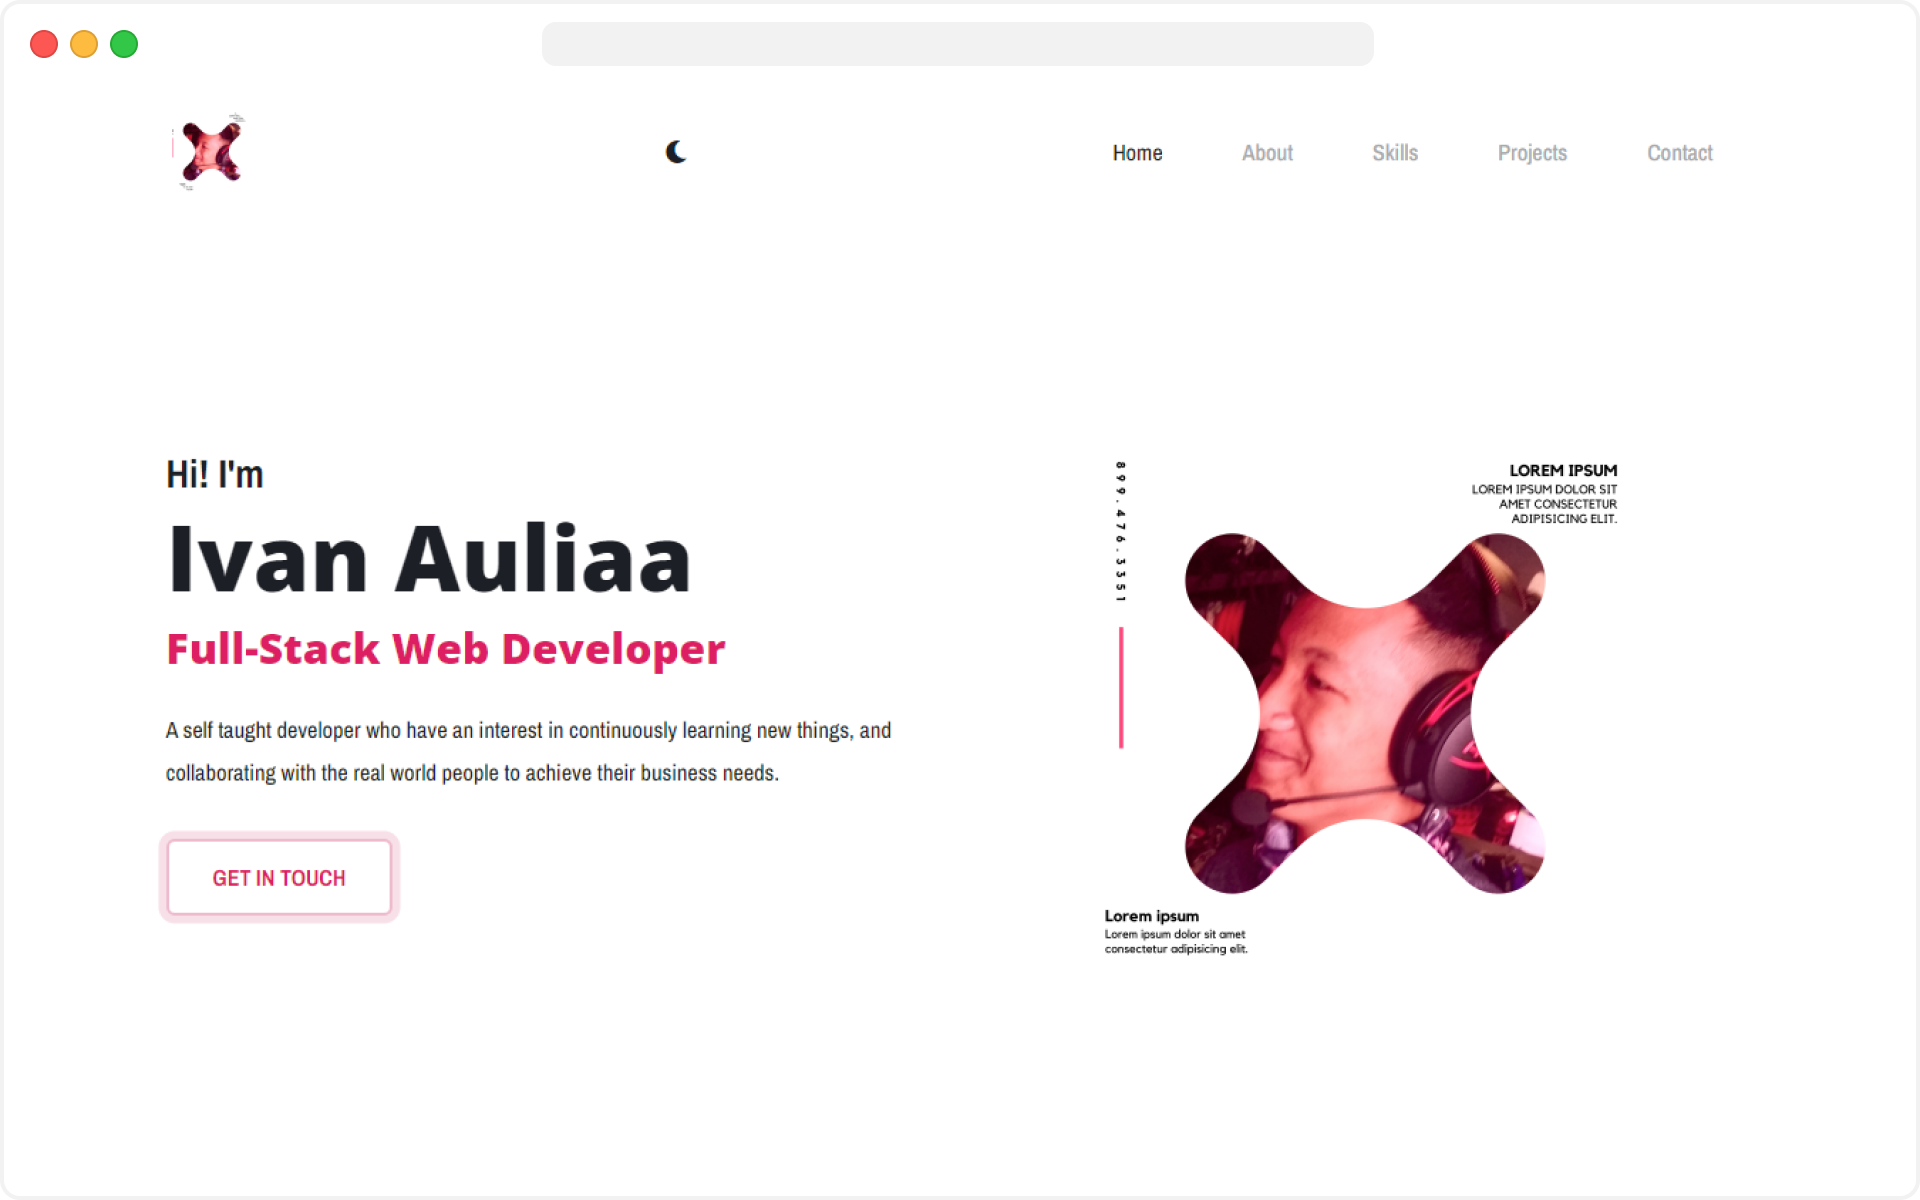
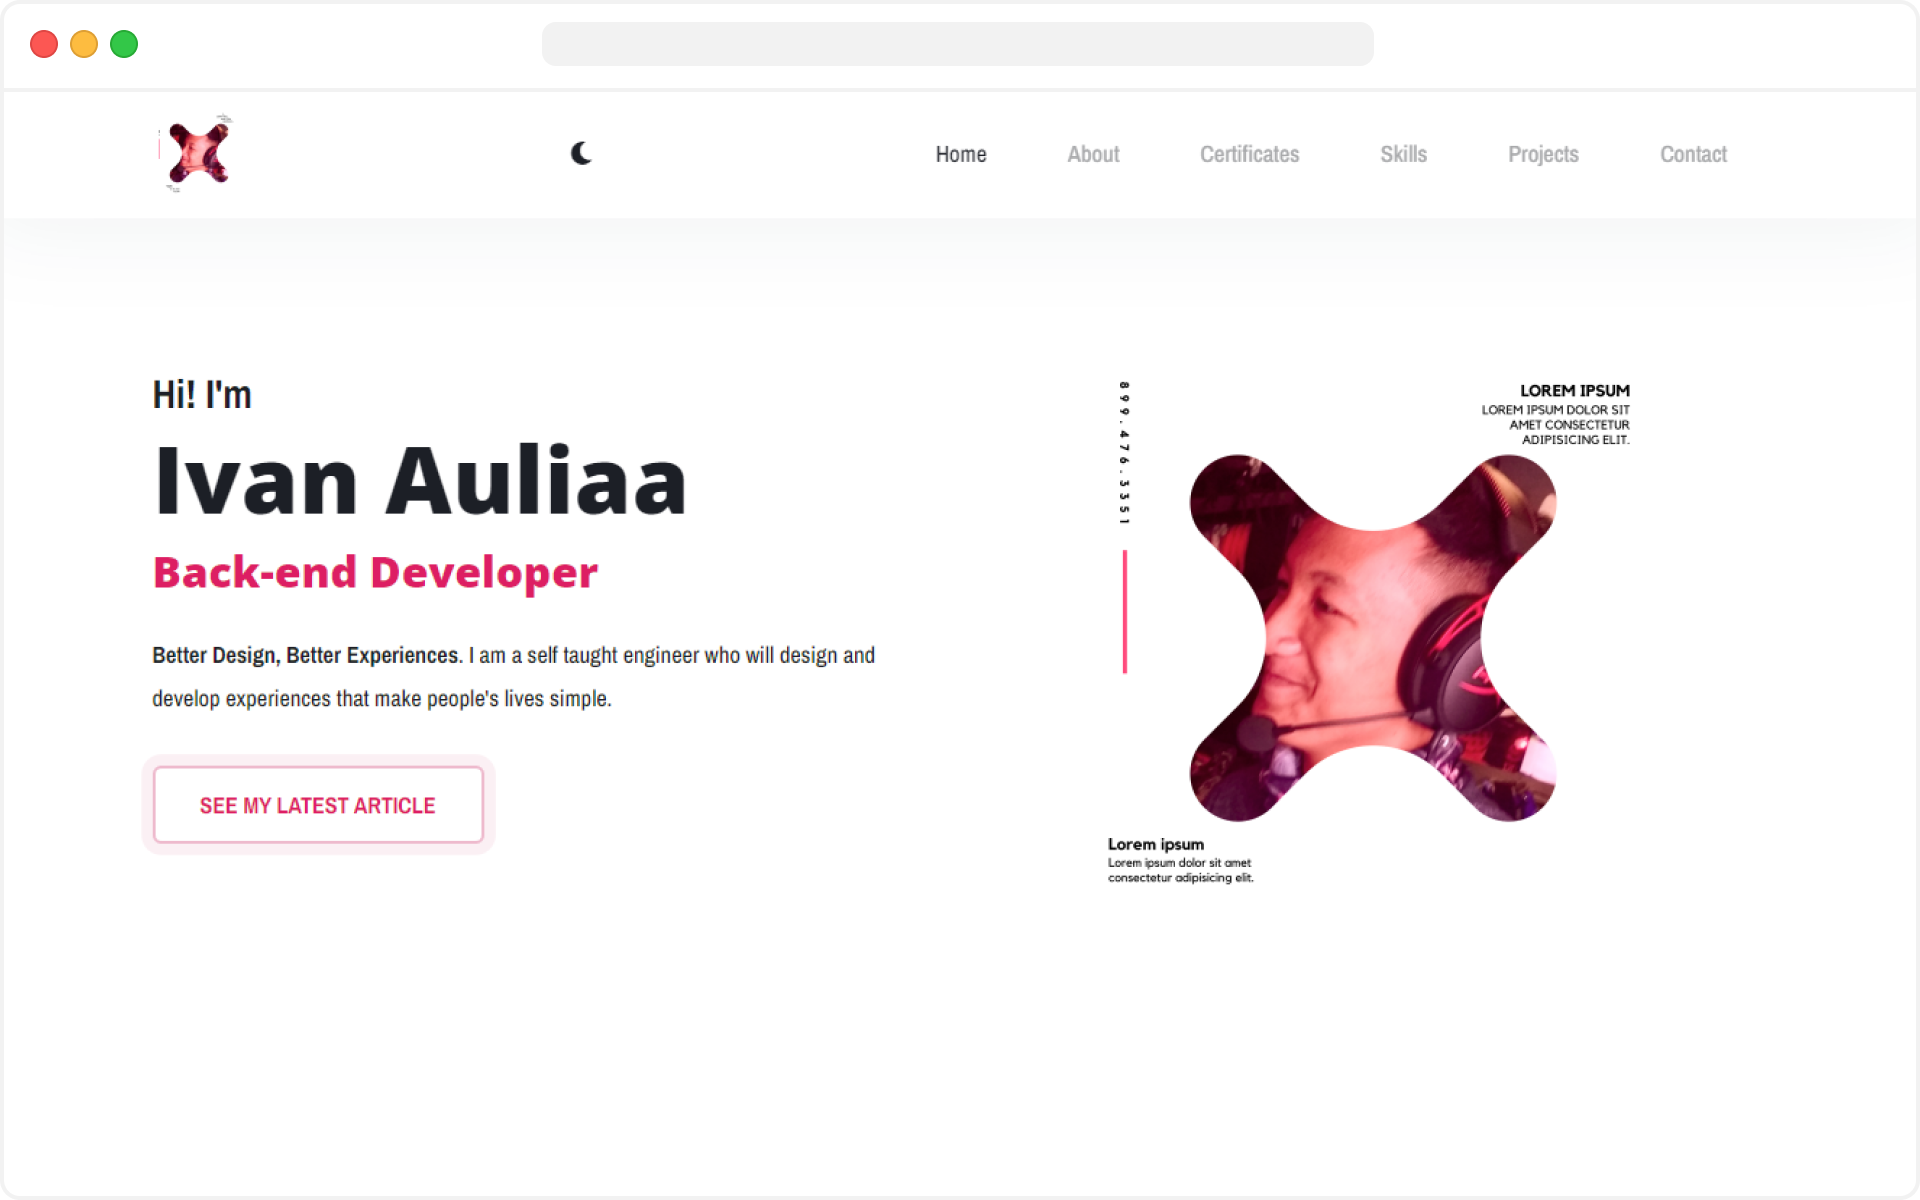
Fix some copywriting

diff --git a/index.html b/index.html
@@ -66,10 +66,10 @@
             Ivan Auliaa
           </h1>
           <h3 class="subtitle">
-            Full-Stack Web Developer
+            Back-end Developer
           </h3>
           <p class="support">
-            <b>Better Design, Better Experiences</b>. I am a self taught engineer who will design and develop
+            <b>Better Design, Better Experiences</b>. I am a back-end developer who will design and develop
             experiences that make people's lives simple.
           </p>
           <div class="cta mb-5">
@@ -105,10 +105,11 @@
         </div>
         <div class="col">
           <p class="support">
-            Hi! I’m Ivan Auliaa, a Full-Stack Web Developer based in Jombang, Indonesia. I have been experiencing as a
-            Programmer for more than 2 years. I interested in REST APIs making, database designing, and application
-            system designing. I’m always looking for learning new things, by collaborating and working together with
-            people around the world.
+            Hi! I’m Ivan Auliaa, a Back-end Developer based in Jombang, Indonesia. I have been experiencing as a
+            Programmer for more than 2 years. I am a person who always wants to learn new things, has a high curiosity
+            about the development of technologies, and always challenged to solve problems. I am looking for
+            opportunities in back-end development such as problem solving, REST API making, and app building with a
+            background in software engineering.
           </p>
           <p class="title">
             What I’ve been up to:
@@ -116,7 +117,7 @@
           <ul>
             <li>Build this! (making it was so fun)</li>
             <li>Exploring GDRP tech stack</li>
-            <li>Walking through Web Developer path</li>
+            <li>Walking through Back-end Developer path</li>
             <li>Contribute to community</li>
           </ul>
           <div class="cta text-center">
@@ -315,7 +316,7 @@
             </p>
             <ul>
               <li>HTML5, CSS3, Bootstrap 5.</li>
-              <li>Responsive on mobile, tablet, desktop screen.</li>
+              <li>Responsive on mobile, tablet, and desktop screen.</li>
               <li>Light/Dark UI preferences saved in local storage.</li>
               <li>Little customization on its CSS and Bootstrap.</li>
             </ul>
